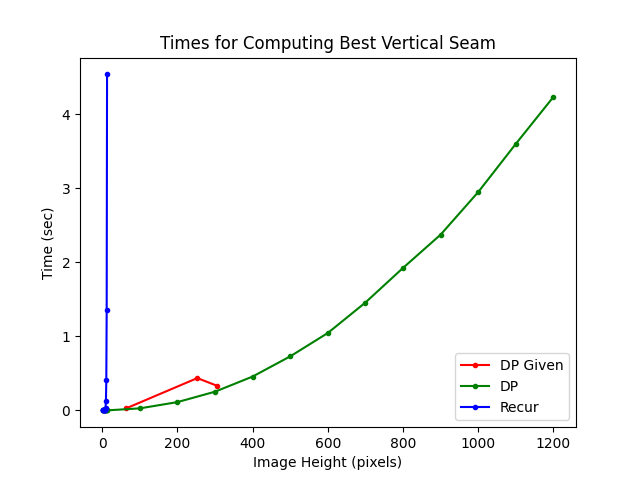
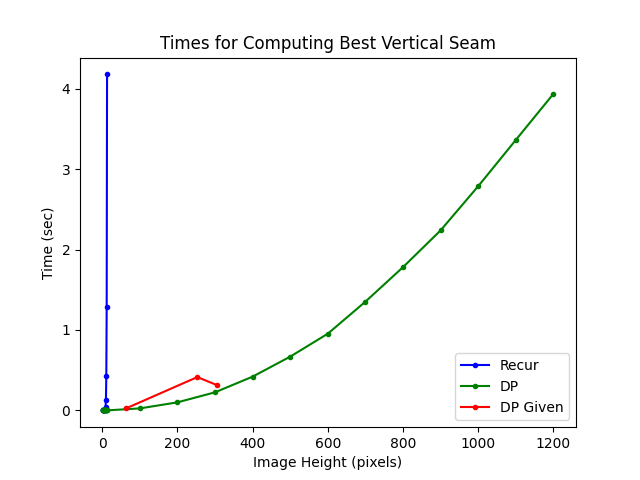
hw_1: remove energy caching for dp

diff --git a/hw/hw_1/resizeable_image.py b/hw/hw_1/resizeable_image.py
@@ -13,55 +13,36 @@ class ResizeableImage(ImageMatrix):
 
     def _best_seam_dp(self) -> list[tuple[int, int]]:
         """Compute the best seam using dynamic programming."""
-        # Assumes non-neg int energy. Use a dict if this is not true.
+        # Assumes non-neg energy (-1 is not a valid energy). Use a dict if this is not true.
         min_energy_table = np.full((self.width, self.height), -1, dtype=np.int32)
         min_ind_table = min_energy_table.copy()
-        energy_cache = min_energy_table.copy()
 
         # Base case.
         for i in range(self.width):
-            min_energy_table[i, 0] = self._get_cached_energy(i, 0, energy_cache)
+            min_energy_table[i, 0] = self.energy(i, 0)
 
         # Fill in the rest of the table using the recursive relation.
         for j in range(1, self.height):
             for i in range(self.width):
                 if min_energy_table[i, j] == -1:
-                    self._calc_min_energy_dp(
-                        i, j, min_energy_table, min_ind_table, energy_cache
-                    )
-
-        min_i = min_energy_table[:, -1].argmin()
+                    self._calc_min_energy_dp(i, j, min_energy_table, min_ind_table)
 
         # Backtrack.
+        min_i = min_energy_table[:, -1].argmin()
         seam = [(min_i, self.height - 1)]
         for j in reversed(range(self.height - 1)):
             seam.append((min_ind_table[seam[-1]], j))
         return seam
 
-    def _get_cached_energy(self, i: int, j: int, energy_cache: np.ndarray) -> int:
-        """Returns the cached or calculated energy of the pixel [i,j]."""
-        if energy_cache[i, j] == -1:
-            energy_cache[i, j] = self.energy(i, j)
-        return energy_cache[i, j]
-
     def _calc_min_energy_dp(
-        self,
-        i: int,
-        j: int,
-        min_energy_table: np.ndarray,
-        min_ind_table: np.ndarray,
-        energy_cache: np.ndarray,
+        self, i: int, j: int, min_energy_table: np.ndarray, min_ind_table: np.ndarray
     ) -> None:
         """Compute the min energy of a vertical seam ending at pixel [i, j] using DP."""
         prev_j = j - 1
         left_i, right_i = max(0, i - 1), min(i + 2, self.width)
-        min_prev_i = min(
-            range(left_i, right_i), key=lambda idx: min_energy_table[idx, prev_j]
-        )
+        min_prev_i = min(range(left_i, right_i), key=lambda idx: min_energy_table[idx, prev_j])
 
-        min_energy_table[i, j] = min_energy_table[
-            min_prev_i, prev_j
-        ] + self._get_cached_energy(i, j, energy_cache)
+        min_energy_table[i, j] = min_energy_table[min_prev_i, prev_j] + self.energy(i, j)
         min_ind_table[i, j] = min_prev_i
 
     def _best_seam_recur(self) -> list[tuple[int, int]]:
@@ -80,8 +61,11 @@ class ResizeableImage(ImageMatrix):
         self, i: int, j: int, energy_cache: np.ndarray
     ) -> tuple[int, list[tuple[int, int]]]:
         """Compute the min energy of the best vertical seam ending at pixel [i,j] recursively."""
+        if energy_cache[i, j] == -1:
+            energy_cache[i, j] = self.energy(i, j)
+
         if j == 0:
-            return self._get_cached_energy(i, j, energy_cache), [(i, j)]
+            return energy_cache[i, j], [(i, j)]
 
         min_energy = float("inf")
         best_seam = None
@@ -90,8 +74,8 @@ class ResizeableImage(ImageMatrix):
             if energy < min_energy:
                 min_energy = energy
                 best_seam = seam
-        min_energy += self._get_cached_energy(i, j, energy_cache)
-        return min_energy, [(i, j)] + best_seam
+
+        return min_energy + energy_cache[i, j], [(i, j)] + best_seam
 
 
 if __name__ == "__main__":
